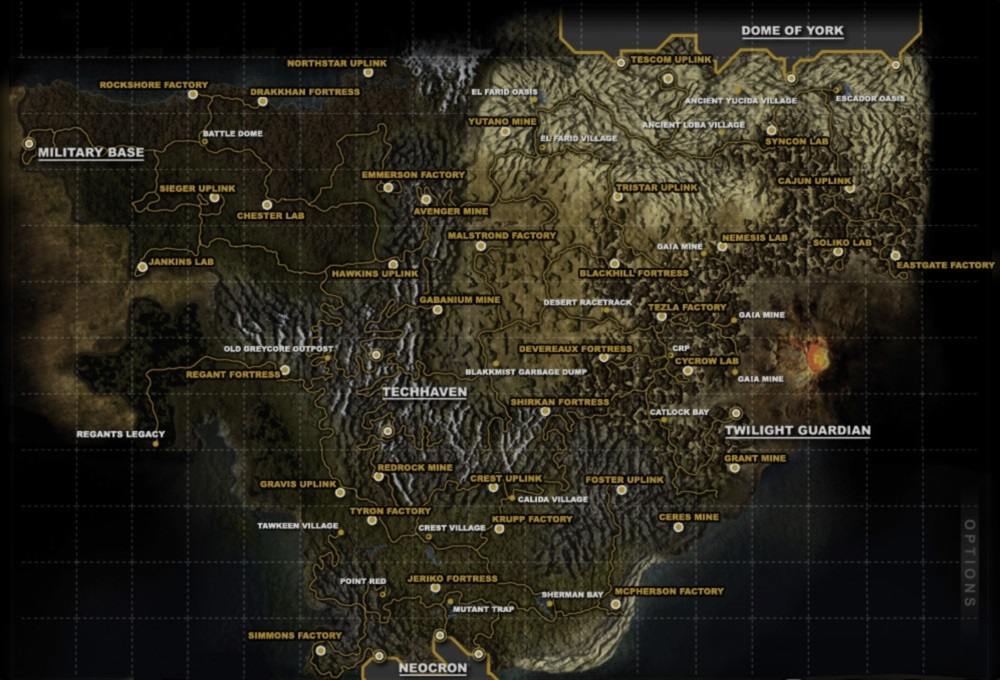
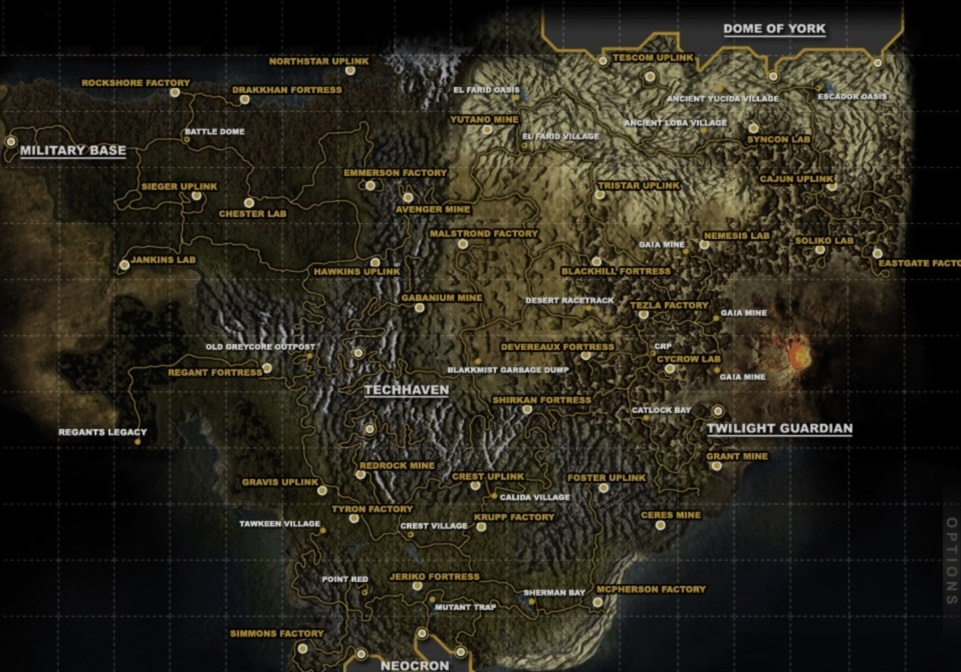
added original image and resized rendered image to better fit non renderable cells also hovering :-)

diff --git a/NeocronWorldMap.Web/Assets/Stylesheets/Site.css b/NeocronWorldMap.Web/Assets/Stylesheets/Site.css
@@ -1,3 +1,4 @@
 body { font-family: arial;}
 
-.world-grid{ background: url("/Assets/Images/worldmap.jpg") no-repeat;min-width: 1000px;height: 680px;}
+.world-grid{ background: url("/Assets/Images/worldmap.jpg") no-repeat;min-width: 961px;height: 672px;}
+    .world-grid .hover td:hover { background: rgba(0, 0, 255, 0.5);}
